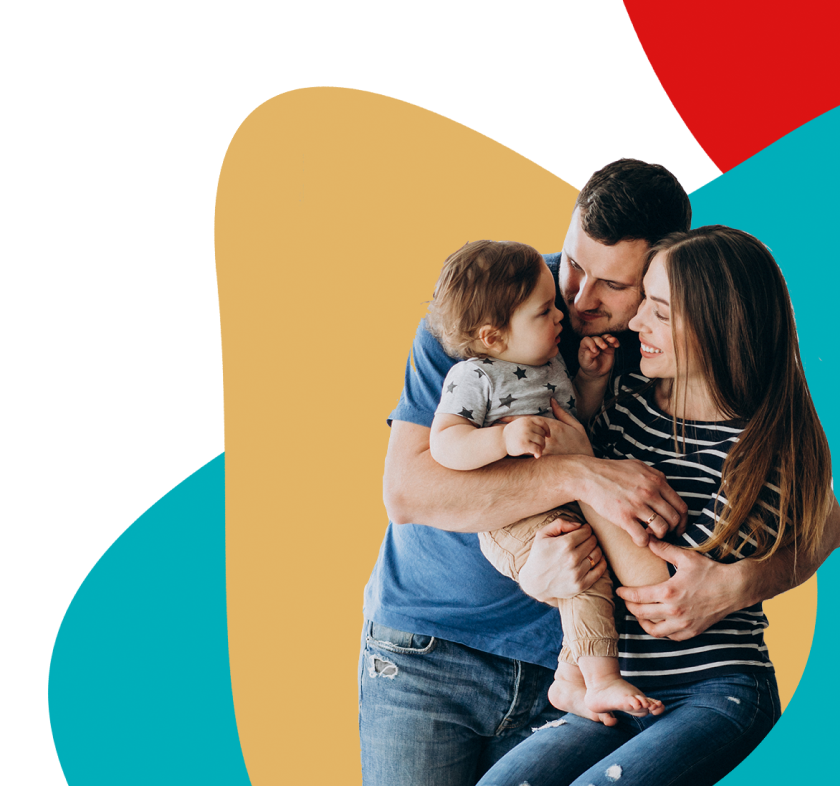
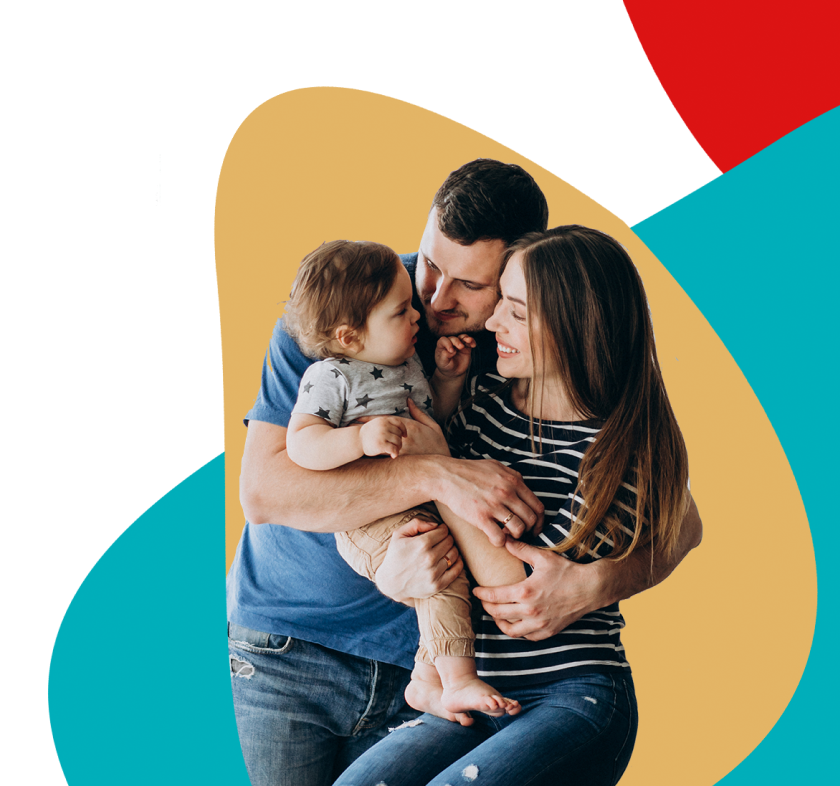
added

diff --git a/styles/style.css b/styles/style.css
@@ -142,7 +142,7 @@ body {
   min-height: 473px;
   width: 800px;
   z-index: 1;
-  top: 125px;
+  top: 150px;
   left: 80px;
 }
 .slider__content__text_name {
@@ -161,7 +161,7 @@ body {
   font-weight: 600;
 }
 .slider__content__text_list{
-  margin-top: 22px;
+  margin-top: 25px;
   max-width: 564px;
 }
 .slider__content__text_list_element{
@@ -241,7 +241,7 @@ color:rgba(255, 255, 255, 1) ;
   bottom: 0;
 }
 .slider__content__text_desc {
-  margin-top: 17px;
+  margin-top: 40px;
   font-family: "Roboto", sans-serif;
   font-size: 24px;
   font-weight: 300;
@@ -730,7 +730,44 @@ a.youtubeurl:hover {
 .page_name_block_red {
   color: rgba(188, 26, 26, 1);
 }
-
+@media screen and (max-width: 1450px) {
+  .slider__content__text_ {
+    position: absolute;
+  
+    min-height: 473px;
+    width: 800px;
+    z-index: 1;
+    top: 125px;
+    left: 80px;
+  }
+  .slider__content__image_ img {
+    right: -40px;
+  }
+  .slider__content__text_desc {
+    margin-top: 18px;
+    font-size: 20px;
+  } 
+  .slider__content__text_desc {
+    max-width: 563px;
+  }
+}
+@media screen and (max-width: 1370px) {
+  .slider__content__text_ {
+    top: 100px;
+  }
+  .slider__content__text_desc{
+    font-size: 20px;
+  }
+  .slider__content__text_desc{
+    margin-top: 21px;
+  }
+  .slider__content__image_ img{
+    right: -71px;
+  }
+  .slider__content__text_desc{
+    max-width: 560px;
+  }
+}
 @media screen and (max-width: 1280px) {
   .screensize {
     background: #55d6aa;

diff --git a/index.php b/index.php
@@ -20,7 +20,7 @@
                                  <div class="slider__content__text_">
                                      <div class="slider__content__text_name">
                                          <p>
-                                             Ваше <span>ЗДОРОВЬЕ</span> <br> наш <span>ПРИОРИТЕТ</span>
+                                             Ваше <span>ЗДОРОВЬЕ</span> <br> наш ПРИОРИТЕТ
                                          </p>
                                      </div>
                                      <div class="slider__content__text_desc">
